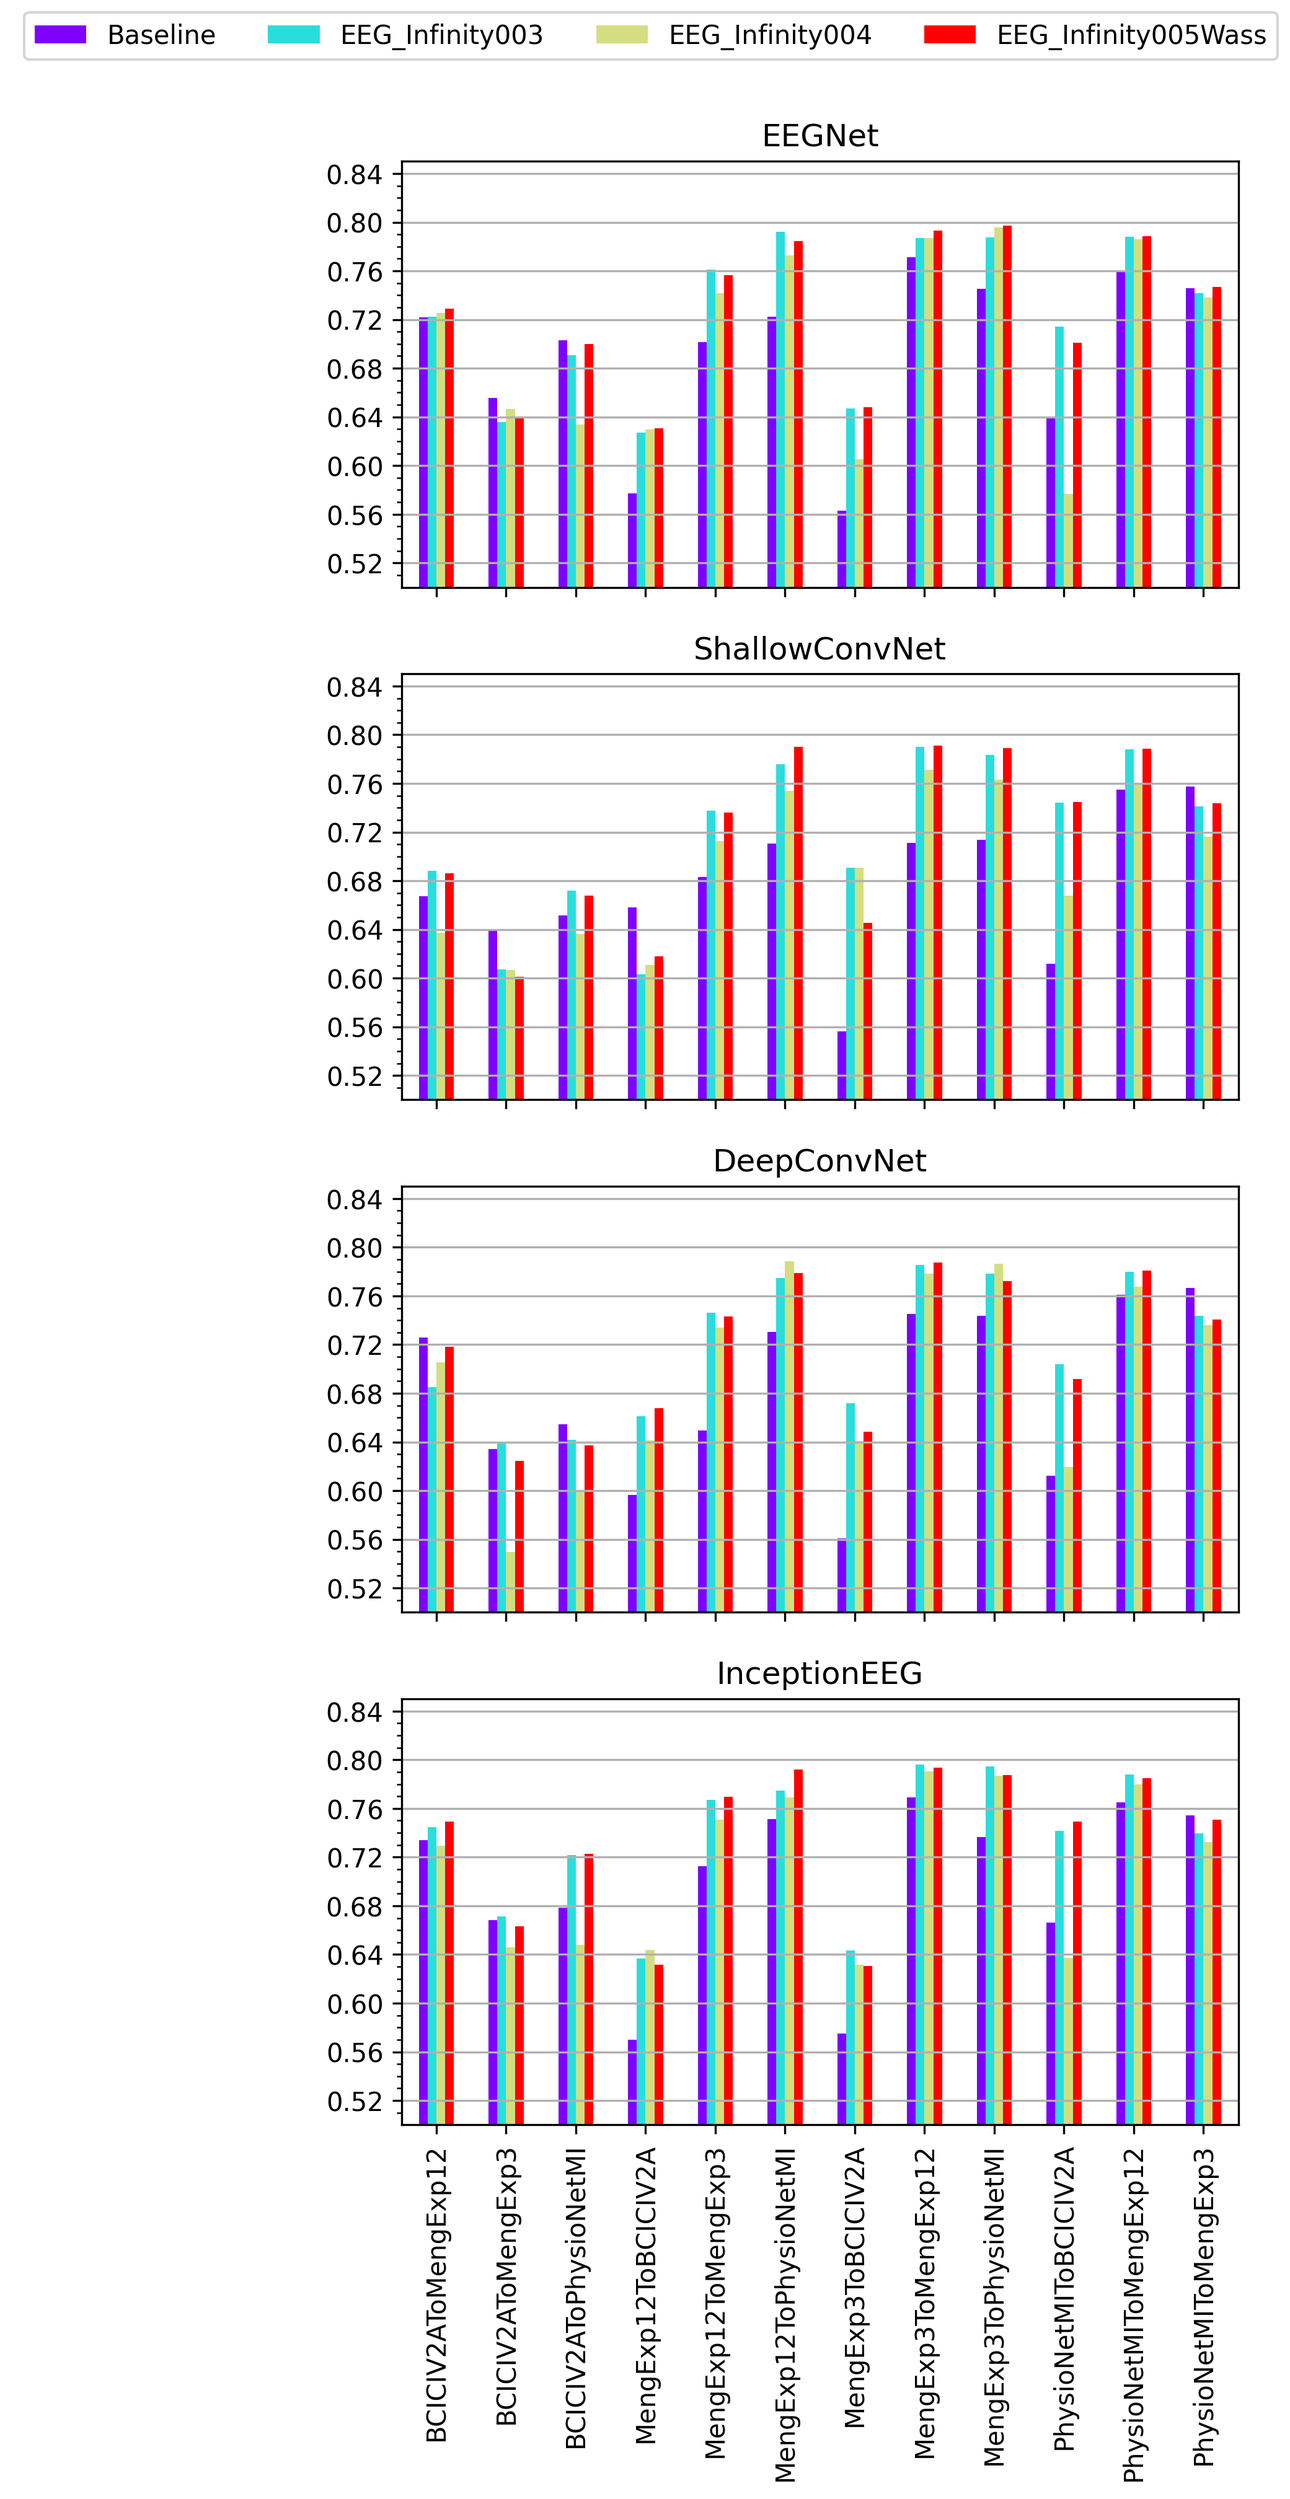
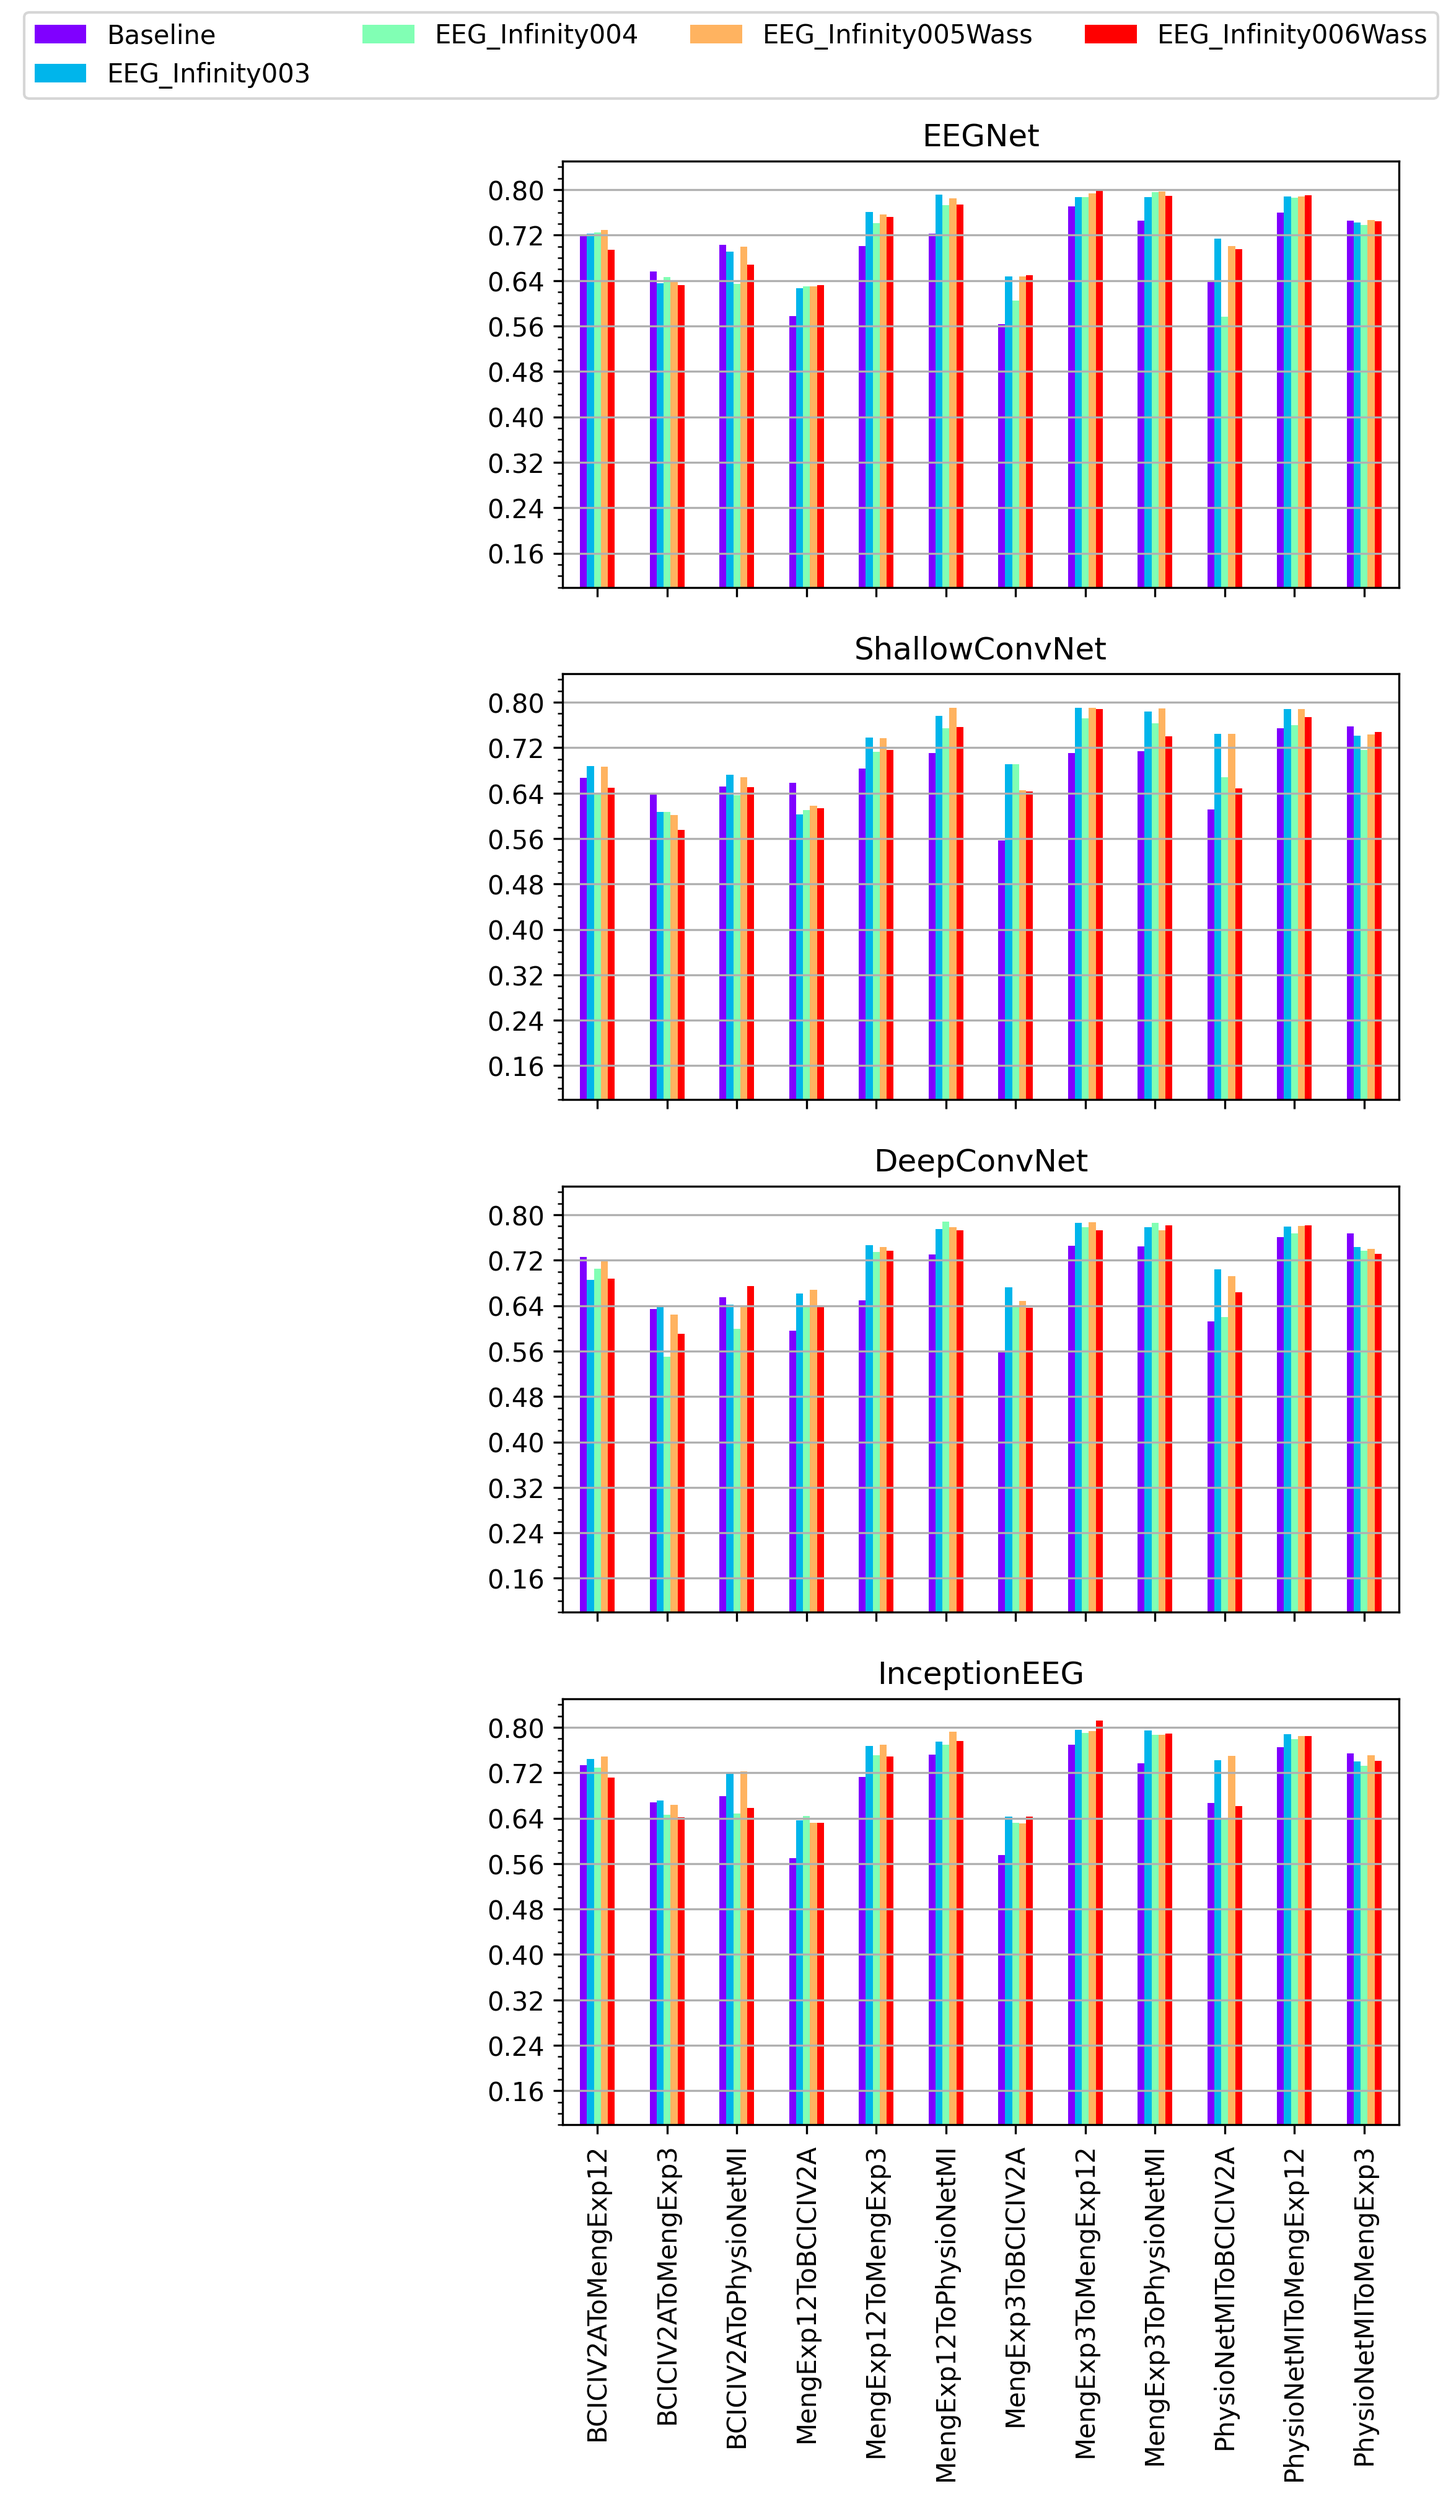
update

Changed region(s): [[0.2499, 0.0, 0.9995, 1.0], [0.0, 0.0, 0.4373, 0.0312]]

diff --git a/visualize_record.py b/visualize_record.py
@@ -87,9 +87,9 @@ def visualize_record_anybackbone(methods_list: List[str], tasks_list: List[str],
 
         # 设置y轴主刻度
         if i==0:
-            ax.set_ylim(0.5, 0.85)
+            ax.set_ylim(0.1, 0.85)
         else:
-            ax.set_ylim(0.5, 0.85)
+            ax.set_ylim(0.1, 0.85)
         # ax.set_ylabel(selected_metric, fontname='Times New Roman')
         ax.yaxis.set_major_locator(mticker.MaxNLocator(integer=True))
 
@@ -116,7 +116,7 @@ def visualize_record_anybackbone(methods_list: List[str], tasks_list: List[str],
         fig.legend(handles, labels, loc='upper right',ncol=4)
 
     # 保存图片
-    plt.savefig(os.path.join('figures', 'ablation_chart.png'), dpi=300, bbox_inches='tight')
+    plt.savefig(os.path.join('figures', 'comparison_chart.png'), dpi=300, bbox_inches='tight')
 # Example usage
 
 tasks_list = ['BCICIV2AToMengExp3',
@@ -142,5 +142,5 @@ backbones_list = ['EEGNet',
                   'InceptionEEG']
 # visualize_record(methods_list=["Baseline", "EA","RA","DDC","DeepCoral","EEG_Infinity003"], tasks_list=tasks_list, selected_backbone="EEGNet", selected_metric="Target Domain Test Accuracy")
 # visualize_record_anybackbone(methods_list=["Baseline","DDC","DeepCoral","DANN","DANNWass", "EEG_Infinity003","EEG_Infinity005Wass"], tasks_list=tasks_list, selected_backbones=backbones_list, selected_metric="Target Domain Test Accuracy")
-# visualize_record_anybackbone(methods_list=["Baseline","DDC","DeepCoral","DANN","DANNWass","EEG_Infinity005Wass"], tasks_list=tasks_list, selected_backbones=backbones_list, selected_metric="Target Domain Test Accuracy")
-visualize_record_anybackbone(methods_list=["Baseline","EEG_Infinity003","EEG_Infinity004","EEG_Infinity005Wass"], tasks_list=tasks_list, selected_backbones=backbones_list, selected_metric="Target Domain Test Accuracy")
+visualize_record_anybackbone(methods_list=["Baseline","DDC","DeepCoral","DANN","DANNWass","EEG_Infinity005Wass"], tasks_list=tasks_list, selected_backbones=backbones_list, selected_metric="Target Domain Test Accuracy")
+# visualize_record_anybackbone(methods_list=["Baseline","EEG_Infinity003","EEG_Infinity004","EEG_Infinity005Wass", "EEG_Infinity006Wass"], tasks_list=tasks_list, selected_backbones=backbones_list, selected_metric="Target Domain Test Accuracy")

diff --git a/run_scripts_EEGInfinity006.py b/run_scripts_EEGInfinity006.py
@@ -22,13 +22,7 @@ def run_script(script_path, work_dir, cmd_args=[]):
     # 恢复原工作目录
     os.chdir(current_dir)
 
-tasks_list = ['BCICIV2AToMengExp3',
-              'BCICIV2AToMengExp12',
-              'BCICIV2AToPhysioNetMI',
-
-              'MengExp3ToBCICIV2A',
-              'MengExp3ToMengExp12',
-              'MengExp3ToPhysioNetMI',
+tasks_list = ['MengExp3ToPhysioNetMI',
 
               'MengExp12ToBCICIV2A',
               'MengExp12ToMengExp3',

diff --git a/VF_Generate_Data.py b/VF_Generate_Data.py
@@ -90,7 +90,7 @@ def process_method(method, cross_id, task):
 # 定义模型和交叉验证ID
 cross_id = 0
 # methods_list = ["Baseline", "DDC", "DeepCoral", "DANN", "DANNWass", "EEG_Infinity003", "EEG_Infinity004", "EEG_Infinity005Wass"]
-methods_list = ["Baseline", "EEG_Infinity005Wass"]
+methods_list = ["Baseline", "EEG_Infinity006Wass"]
 
 # 对每个方法执行处理
 for method in methods_list:

diff --git a/VF_Generate_ModelPara.py b/VF_Generate_ModelPara.py
@@ -162,4 +162,4 @@ cross_id = 0
 # source_SFB, source_FFB, target_SFB, target_FFB = get_Para("EEG_Infinity005Wass", cross_id, task="MengExp12ToMengExp3")
 # draw_model_parameter(source_SFB, target_SFB, source_FFB, target_FFB)
 
-transform_data("EEG_Infinity005Wass", cross_id, task="MengExp12ToMengExp3")
+transform_data("EEG_Infinity006Wass", cross_id, task="MengExp12ToMengExp3")
